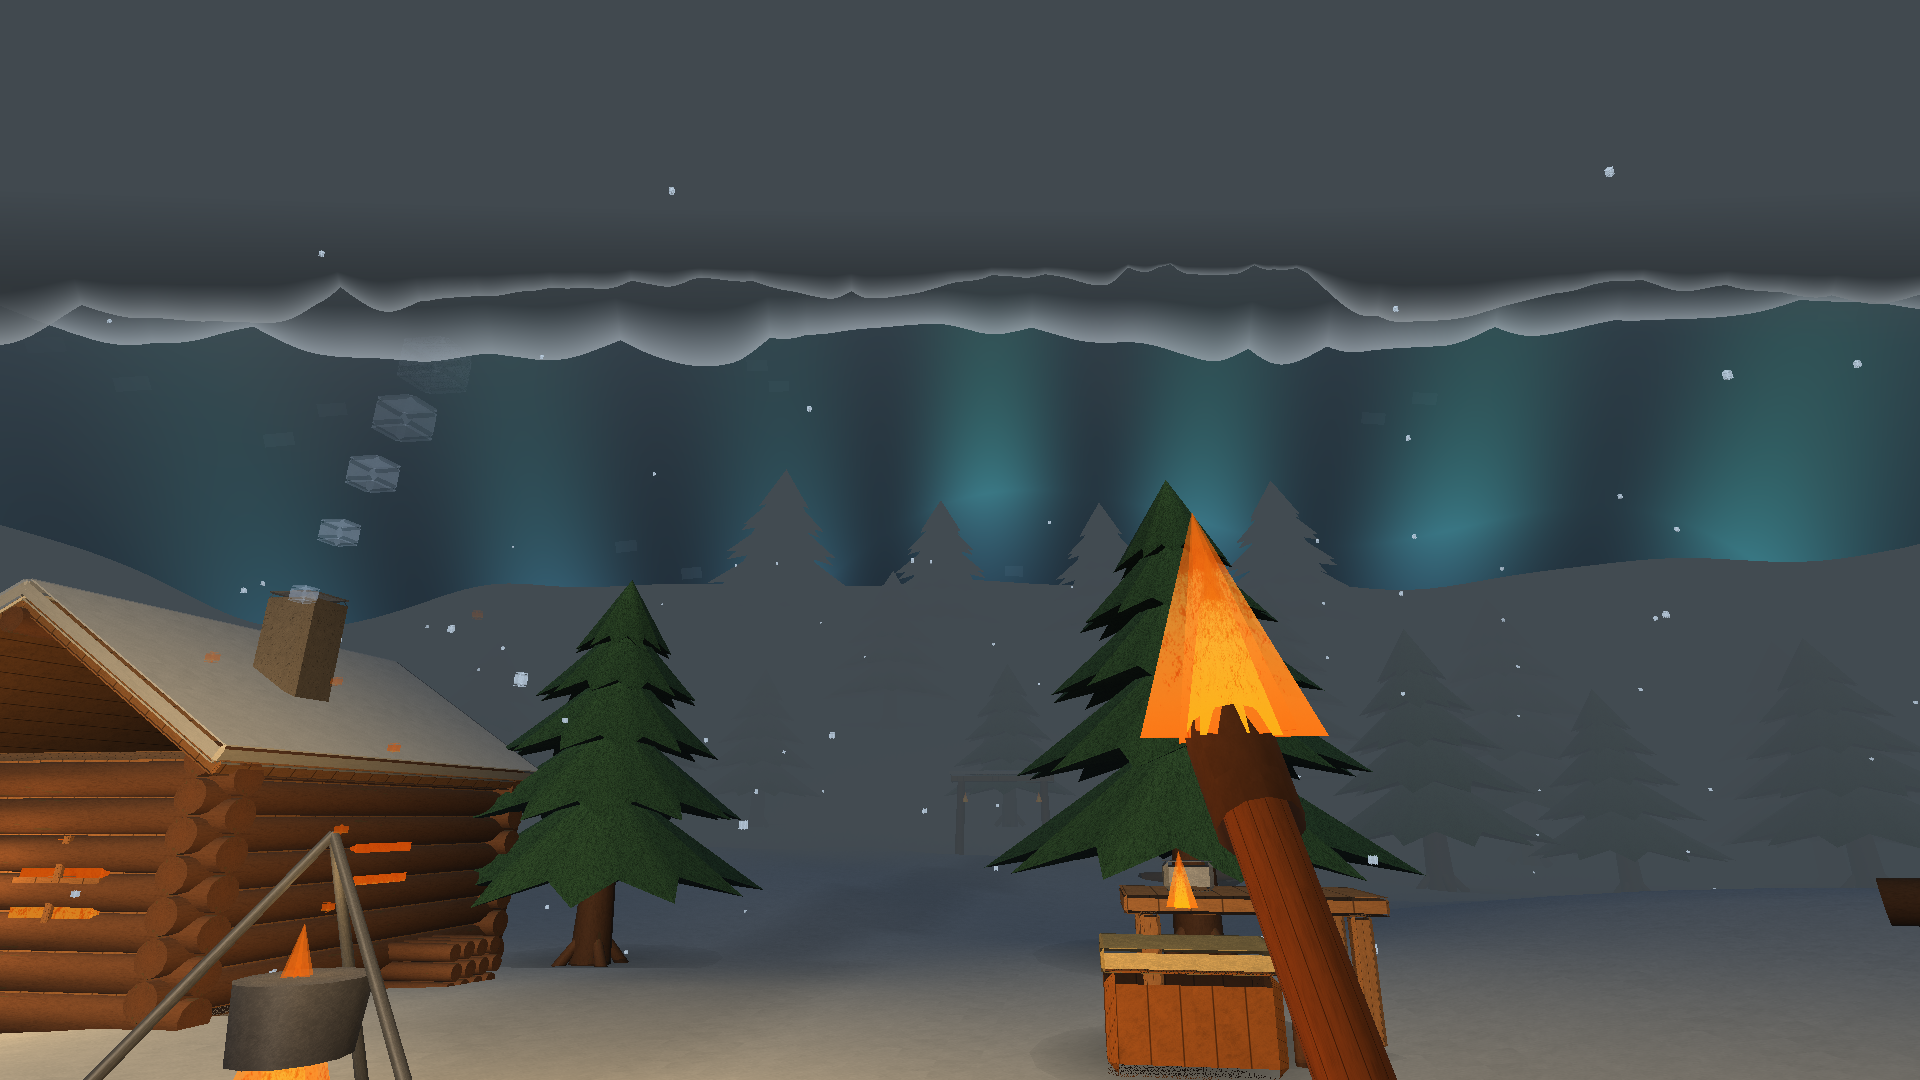
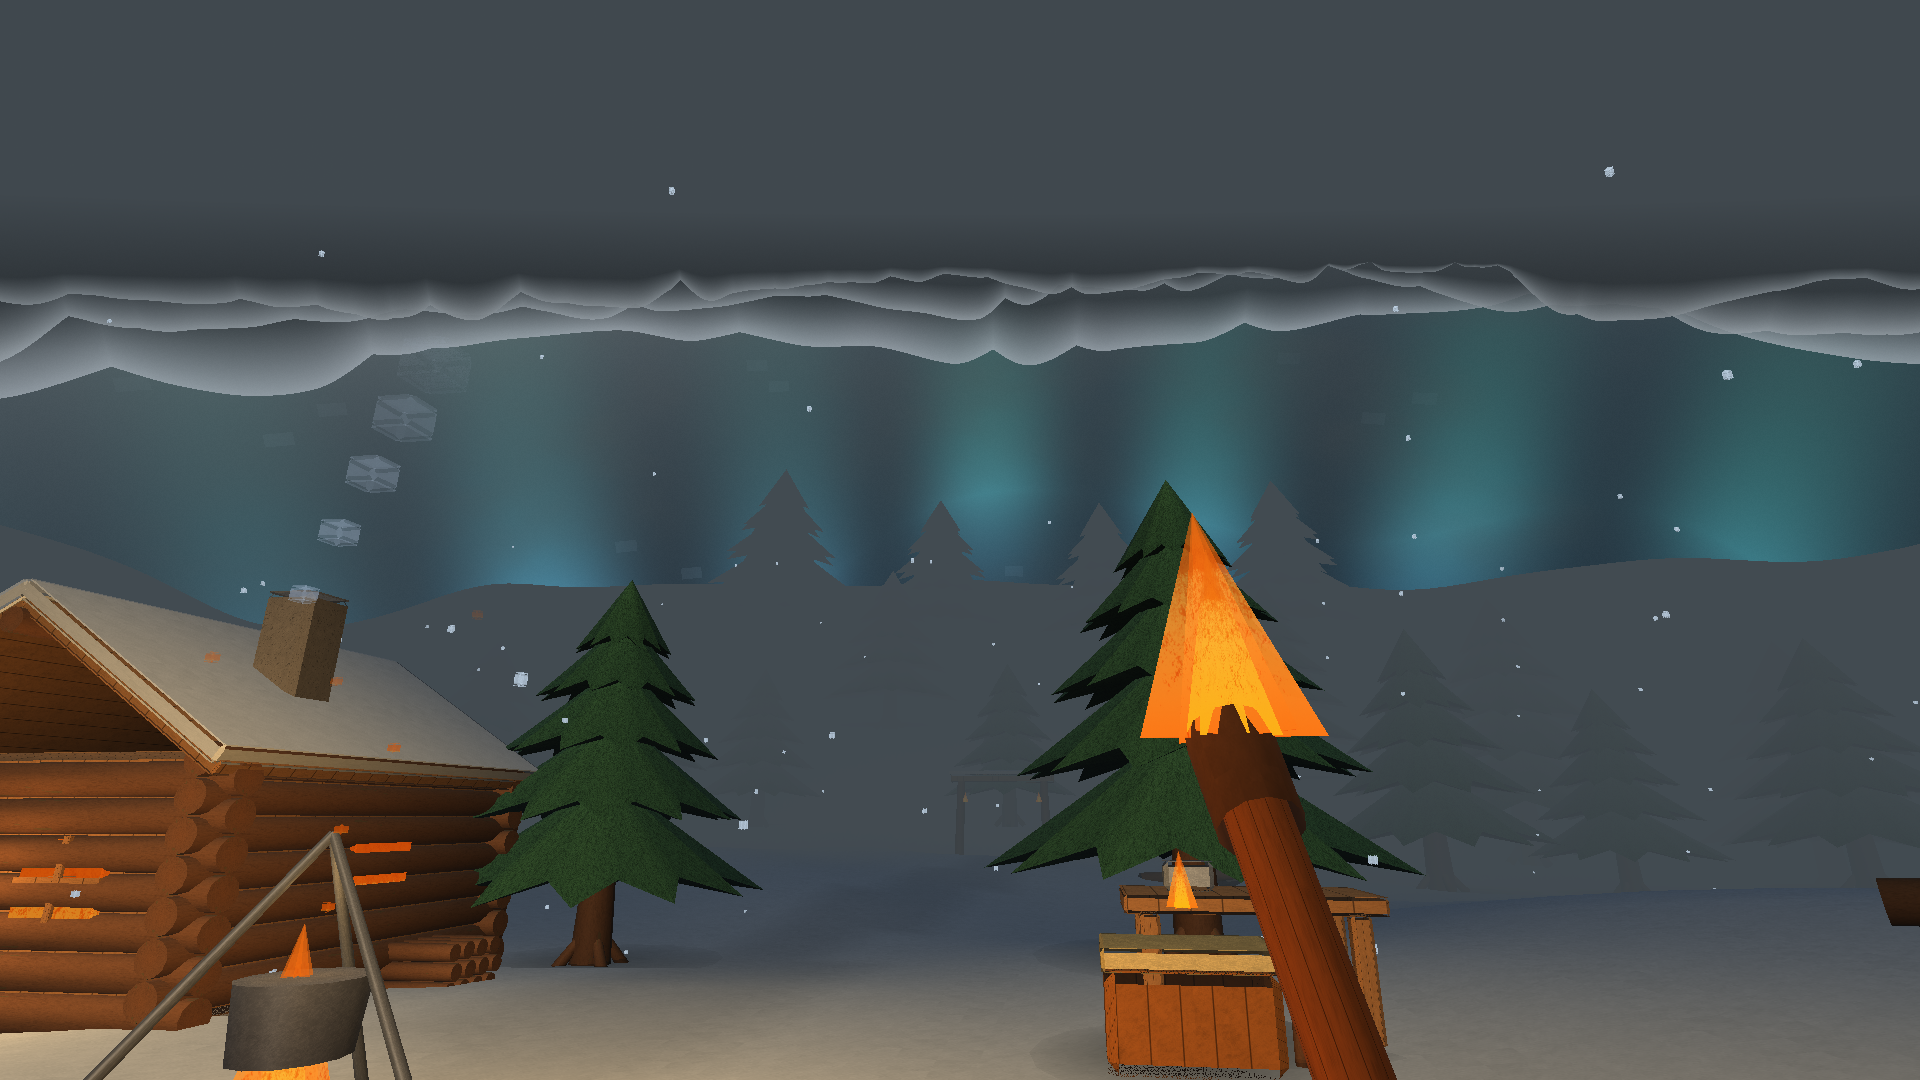
fix: импорты clickable/mutableStateOf + обновлённые стор-рендеры с новым небом

Changed region(s): [[0.0, 0.2444, 1.0, 0.3972], [0.2188, 0.4583, 0.3125, 0.55]]

diff --git a/app-winterforest/src/main/kotlin/com/ayaks/winterforest/presentation/ui/screens/WinterForestScreens.kt b/app-winterforest/src/main/kotlin/com/ayaks/winterforest/presentation/ui/screens/WinterForestScreens.kt
@@ -3,6 +3,7 @@ package com.ayaks.winterforest.presentation.ui.screens
 import android.app.Activity
 import androidx.compose.foundation.background
 import androidx.compose.foundation.border
+import androidx.compose.foundation.clickable
 import androidx.compose.foundation.gestures.detectDragGestures
 import androidx.compose.foundation.layout.Arrangement
 import androidx.compose.foundation.layout.Box
@@ -36,6 +37,7 @@ import androidx.compose.material3.TextButton
 import androidx.compose.runtime.Composable
 import androidx.compose.runtime.getValue
 import androidx.compose.runtime.mutableIntStateOf
+import androidx.compose.runtime.mutableStateOf
 import androidx.compose.runtime.remember
 import androidx.compose.runtime.setValue
 import androidx.compose.ui.Alignment

diff --git a/tools/render/scene_and_render.py b/tools/render/scene_and_render.py
@@ -1181,6 +1181,12 @@ def render_sky(zenith, horizon, fog_col, sun_uv, sun_halo, cam_yaw, cam_pitch, a
 
     az = np.arctan2(dz, dx)
 
+    # тёплое зарево в стороне солнца (как в новом GLSL SKY_FRAGMENT_SHADER)
+    sun_az = np.arctan2(sun_uv[1] - 0.5, sun_uv[0] - 0.5)
+    az_align = np.maximum(0.0, np.cos(az - sun_az))
+    dusk_band = (az_align ** 3) * np.exp(-np.abs(elev) * 4.2)
+    col += sc * (dusk_band * 0.28)[..., None]
+
     if aurora > 0.02:
         star_x = np.floor(az * 46.0)
         star_y = np.floor(elev * 90.0)
@@ -1198,11 +1204,17 @@ def render_sky(zenith, horizon, fog_col, sun_uv, sun_halo, cam_yaw, cam_pitch, a
             return h0 + (h1 - h0) * uu
 
         wave1 = np.sin(az * 3.0 + time_sec * 0.28 + np.sin(az * 7.0 - time_sec * 0.15) * 0.8)
+        wave2 = np.sin(az * 2.2 - time_sec * 0.20 + np.sin(az * 5.0 + time_sec * 0.12) * 1.1)
         curtain = np.exp(-np.abs(elev - (0.30 + 0.09 * wave1)) * 7.5)
+        curtain2 = np.exp(-np.abs(elev - (0.46 + 0.11 * wave2)) * 9.5)
         streaks = 0.55 + 0.45 * np.sin(az * 26.0 + time_sec * 0.9)
+        streaks2 = 0.55 + 0.45 * np.sin(az * 18.0 - time_sec * 0.7 + 1.3)
         aur_mix = np.clip(elev * 1.4, 0, 1)[..., None]
         aur_col = np.array([0.10, 0.88, 0.58]) + (np.array([0.42, 0.28, 0.92]) - np.array([0.10, 0.88, 0.58])) * aur_mix
+        aur_mix2 = np.clip(elev * 1.1, 0, 1)[..., None]
+        aur_col2 = np.array([0.16, 0.72, 0.66]) + (np.array([0.30, 0.42, 0.95]) - np.array([0.16, 0.72, 0.66])) * aur_mix2
         col += aur_col * (curtain * streaks * aurora * 0.52)[..., None]
+        col += aur_col2 * (curtain2 * streaks2 * aurora * 0.30)[..., None]
 
         # clouds + mountains only outside mine — always computed below
     # clouds
@@ -1216,18 +1228,43 @@ def render_sky(zenith, horizon, fog_col, sun_uv, sun_halo, cam_yaw, cam_pitch, a
         h1 = hash21(i_ + 1.0, np.full_like(i_, 1.7))
         return h0 + (h1 - h0) * uu
 
-    cloud_az = az * 3.2 + time_sec * 0.012
-    cloud = noise1d(cloud_az * 2.4 + elev * 6.0) * 0.6 + noise1d(cloud_az * 5.8 - elev * 9.0) * 0.4
-    cloud_mask = np.clip((cloud - 0.56) / 0.30, 0, 1) * np.exp(-elev * 2.8) * 0.28
-    cloud_mask = np.where(elev > 0.03, cloud_mask, 0.0)
-    cloud_col = hc + (sc - hc) * 0.35
-    col = col + (cloud_col - col) * cloud_mask[..., None]
+    # два слоя облаков (fbm-подобная структура как в GLSL)
+    def noise2d(px_, py_):
+        ix = np.floor(px_); iy = np.floor(py_)
+        fx = px_ - ix; fy = py_ - iy
+        ux = fx * fx * (3.0 - 2.0 * fx); uy = fy * fy * (3.0 - 2.0 * fy)
+        h00 = hash21(ix, iy); h10 = hash21(ix + 1.0, iy)
+        h01 = hash21(ix, iy + 1.0); h11 = hash21(ix + 1.0, iy + 1.0)
+        return h00 + (h10 - h00) * ux + (h01 - h00) * uy + (h00 - h10 - h01 + h11) * ux * uy
 
-    # sun disc + halo
+    def fbm2(px_, py_):
+        v_ = np.zeros_like(px_)
+        a_ = 0.55
+        for bi in range(4):
+            v_ = v_ + a_ * noise2d(px_, py_)
+            px_, py_ = px_ * 2.13 + 17.7, py_ * 2.13 + 9.2
+            a_ *= 0.52
+        return v_
+
+    cloud_u = az * 2.1 + time_sec * 0.012
+    cloud_v = elev * 3.4
+    high_cloud = fbm2(cloud_u * 1.7 + time_sec * 0.016, cloud_v * 1.7)
+    low_cloud = fbm2(cloud_u * 3.1 - time_sec * 0.010, cloud_v * 3.1 + 2.3)
+    cloud_mix = high_cloud * 0.62 + low_cloud * 0.38
+    cloud_mask = np.clip((cloud_mix - 0.52) / 0.36, 0, 1) * np.exp(-elev * 2.4)
+    cloud_mask = np.where(elev > 0.02, cloud_mask, 0.0) * 0.42
+    cloud_lit = hc + (sc - hc) * 0.42
+    col = col + (cloud_lit - col) * cloud_mask[..., None]
+    wisp = np.clip((low_cloud - 0.60) / 0.35, 0, 1) * np.exp(-elev * 1.8) * 0.16
+    wisp_col = hc + (sc - hc) * 0.25
+    col = col + (wisp_col - col) * wisp[..., None]
+
+    # sun disc + halo (с затемнением края и широким гало, как в GLSL)
     sun_d = np.sqrt((u - sun_uv[0]) ** 2 + (v - sun_uv[1]) ** 2)
     disc = np.clip((0.042 - sun_d) / (0.042 - 0.014), 0, 1)
-    halo = np.exp(-sun_d * 6.5) * 0.34
-    col += sc * ((disc * 0.88 + halo)[..., None])
+    limb = 1.0 - np.clip(sun_d / 0.042, 0, 1) * 0.25
+    halo = np.exp(-sun_d * 5.6) * 0.36 + np.exp(-sun_d * 1.7) * 0.10
+    col += sc * ((disc * limb * 0.92 + halo)[..., None])
 
     # mountains (two ridges)
     def mtn_ridge(azq, freq, shift):
@@ -1236,18 +1273,27 @@ def render_sky(zenith, horizon, fog_col, sun_uv, sun_halo, cam_yaw, cam_pitch, a
         h_ += 0.14 * np.abs(noise1d(azq * freq * 4.41 + shift * 2.3) * 2.0 - 1.0)
         return h_
 
-    far_peak = 0.135 * mtn_ridge(az, 3.1, 4.2) + 0.015
-    near_peak = 0.092 * mtn_ridge(az, 5.4, 11.7) - 0.004
+    far_peak = 0.150 * mtn_ridge(az, 2.6, 4.2) + 0.012
+    mid_peak = 0.118 * mtn_ridge(az, 4.1, 8.9) + 0.002
+    near_peak = 0.086 * mtn_ridge(az, 6.2, 11.7) - 0.006
 
-    snow_line = np.clip((elev - far_peak * 0.45) / np.maximum(far_peak * 0.55, 1e-4), 0, 1)
-    far_mtn = fc * 0.72 + ((fc + (np.array([0.92, 0.96, 1.0]) - fc) * 0.52) - fc * 0.72) * snow_line[..., None]
-    col = np.where((elev < far_peak)[..., None], col + (far_mtn - col) * 0.82, col)
+    snow_line = np.clip((elev - far_peak * 0.42) / np.maximum(far_peak * 0.58, 1e-4), 0, 1)
+    far_mtn = fc * 0.70 + ((fc + (np.array([0.92, 0.96, 1.0]) - fc) * 0.55) - fc * 0.70) * snow_line[..., None]
+    col = np.where((elev < far_peak)[..., None], col + (far_mtn - col) * 0.80, col)
 
-    snow_line2 = np.clip((elev - near_peak * 0.38) / np.maximum(near_peak * 0.62, 1e-4), 0, 1)
-    near_mtn = fc * 0.56 + ((fc + (np.array([0.95, 0.98, 1.0]) - fc) * 0.42) - fc * 0.56) * snow_line2[..., None]
-    col = np.where((elev < near_peak)[..., None], col + (near_mtn - col) * 0.92, col)
+    snow_line_m = np.clip((elev - mid_peak * 0.40) / np.maximum(mid_peak * 0.60, 1e-4), 0, 1)
+    mid_mtn = fc * 0.62 + ((fc + (np.array([0.93, 0.97, 1.0]) - fc) * 0.50) - fc * 0.62) * snow_line_m[..., None]
+    col = np.where((elev < mid_peak)[..., None], col + (mid_mtn - col) * 0.86, col)
 
-    horizon_haze = np.clip((0.06 - elev) / 0.11, 0, 1)
+    snow_line2 = np.clip((elev - near_peak * 0.36) / np.maximum(near_peak * 0.64, 1e-4), 0, 1)
+    near_mtn = fc * 0.52 + ((fc + (np.array([0.95, 0.98, 1.0]) - fc) * 0.44) - fc * 0.52) * snow_line2[..., None]
+    col = np.where((elev < near_peak)[..., None], col + (near_mtn - col) * 0.93, col)
+
+    # дизеринг против полосатости градиента
+    dither = (hash21(u * 1913.0, v * 1171.0) - 0.5) * 0.012
+    col += dither[..., None]
+
+    horizon_haze = np.clip((0.065 - elev) / 0.115, 0, 1)
     col = col + (fc - col) * (horizon_haze * 0.94)[..., None]
 
     out = np.clip(col * 255.0 + 0.5, 0, 255).astype(np.uint8)
